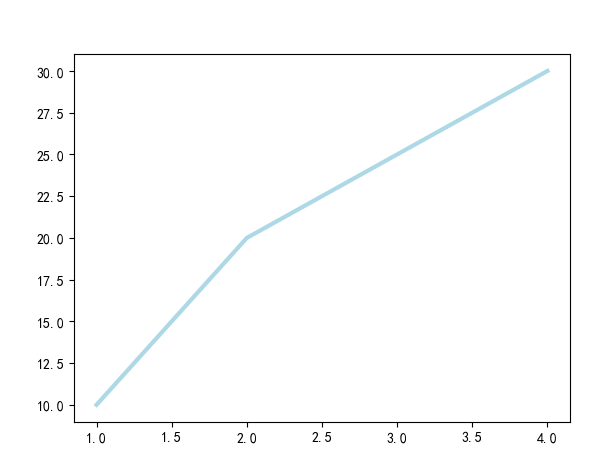
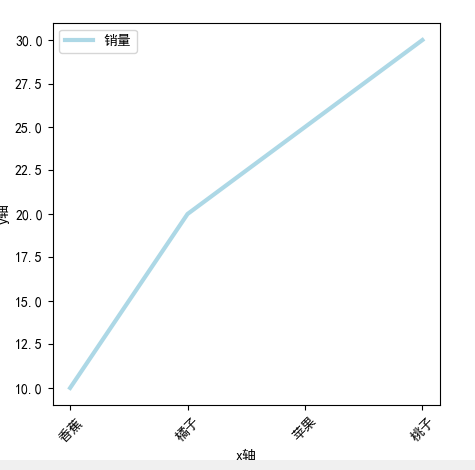
add matplotlib docs

diff --git a/3rd part/matplotlib.md b/3rd part/matplotlib.md
@@ -22,7 +22,16 @@
 - 简单的图像
 
   ```python
-  plt.plot([1, 2, 3, 4], [10, 20, 25, 30], color='lightblue', linewidth=3)
+  fruit = ["香蕉", '橘子', '苹果', '桃子']
+  x = [0, 1, 2, 3]
+  y = [10, 20, 25, 30]
+  
+  plt.figure(figsize=(5, 5))
+  plt.plot(x, y, color='lightblue', linewidth=3, label="销量")
+  plt.xlabel("x轴")
+  plt.ylabel("y轴")
+  plt.xticks(x, fruit, rotation=45)  # 替换成中文名称并进行 45 度旋转
+  plt.legend(loc="best")
   plt.show()
   ```
 
@@ -85,7 +94,31 @@
 
      
 
-- 绘线图
+  使用 Axes 对象实现如上的简单图像
+
+  ```python
+  fruit = ["香蕉", '橘子', '苹果', '桃子']
+  x = [0, 1, 2, 3]
+  y = [10, 20, 25, 30]
+  
+  fig, ax = plt.subplots(figsize=(5, 5))
+  
+  ax.plot(x, y, color='lightblue', linewidth=3, label="销量")
+  ax.set_xlabel("x轴")
+  ax.set_ylabel("y轴")
+  
+  ax.set_xticks(x)  # 替换成中文名称并进行 45 度旋转, y 轴类似，默认值为 both
+  ax.set_xticklabels(fruit)
+  ax.tick_params(axis='x', color='red', rotation=45)
+  
+  ax.legend(loc="best")
+  
+  plt.show()
+  ```
+
+  ![](imgs/28.png)
+
+- 线图
 
   ```python
   x = np.linspace(0, np.pi)
